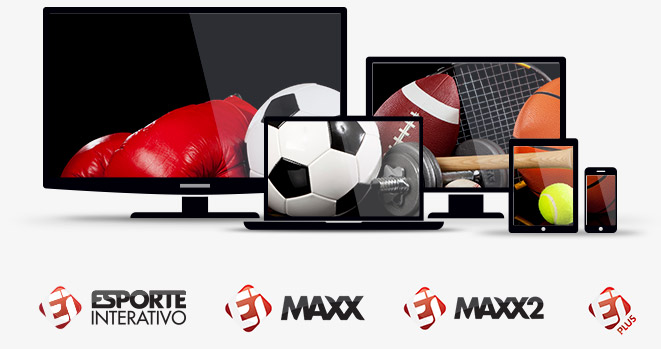
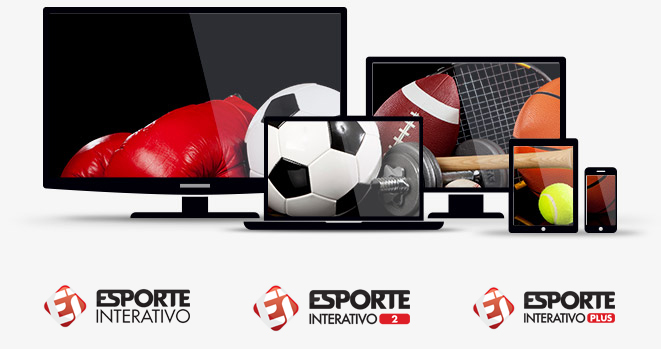
ajuste página esporte interativo

Changed region(s): [[0.3328, 0.8023, 0.9682, 0.9456], [0.0605, 0.8023, 0.3026, 0.9456]]

diff --git a/portal-copel-telecom/page-esporte-interativo.php b/portal-copel-telecom/page-esporte-interativo.php
@@ -64,7 +64,7 @@
 						<div class="col-sm-4">
 
 							<h3>Sobre o Esporte Interativo</h3>
-							<p>O Esporte Interativo é uma das maiores marcas do mundo dedicada à produção e distribuição de conteúdos esportivos em múltiplas plataformas. Formado pelos canais <span class="text-orange">EIMAXX</span>, <span class="text-orange">EIMAXX 2</span> e <span class="text-orange">Esporte Interativo</span>, o EI Plus, tem o objetivo de estar próximo do público apaixonado por esportes, onde ele estiver. </p>
+							<p>O Esporte Interativo é uma das maiores marcas do mundo dedicada à produção e distribuição de conteúdos esportivos em múltiplas plataformas. Formado pelos canais <span class="text-orange">Esporte Interativo</span> e <span class="text-orange">Esporte Interativo 2</span>, o EI Plus, tem o objetivo de estar próximo do público apaixonado por esportes, onde ele estiver. </p>
 							<p><strong>No EI Plus você pode acompanhar todos os conteúdos dos Canais Esporte interativo no celular, no computador, na smart TV LG, no tablet ou na Apple TV.</strong></p>
 							<a href="#como-acessar" class="bt bt-orange">SAIBA COMO ACESSAR</a>
 						</div>
